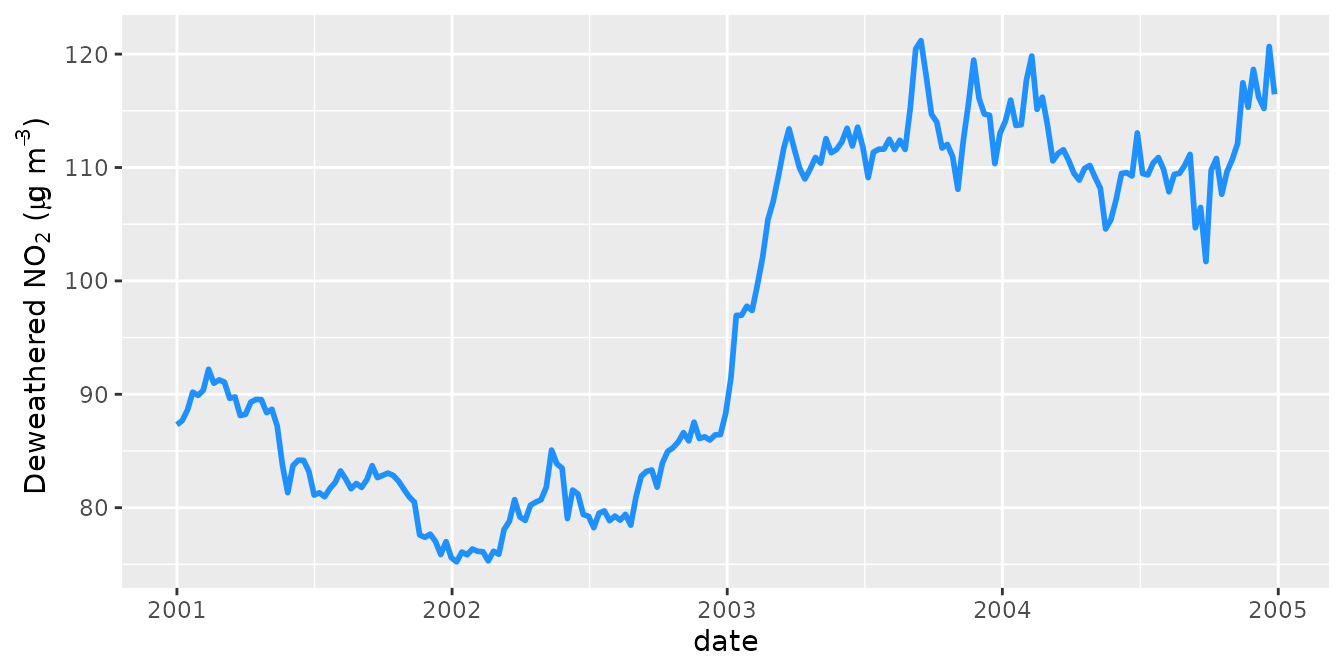
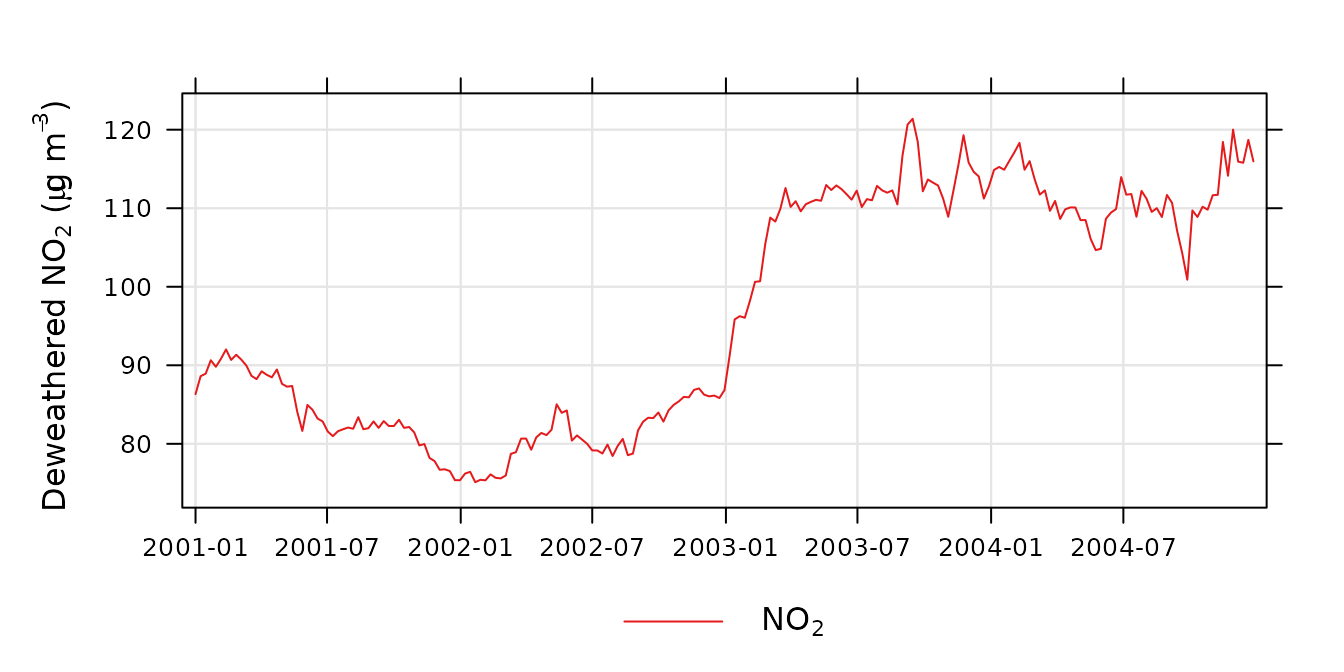
Deploying to gh-pages from @ davidcarslaw/deweather@ae56368aae4a6438d65e21ffb426add6b75899d8 🚀

diff --git a/articles/deweather.html b/articles/deweather.html
@@ -235,10 +235,7 @@ function. Note that in this case there is no need to supply the
 <span><span class="op">)</span></span></code></pre></div>
 <p>Now it is possible to plot the resulting trend.</p>
 <div class="sourceCode" id="cb8"><pre class="downlit sourceCode r">
-<code class="sourceCode R"><span><span class="kw"><a href="https://rdrr.io/r/base/library.html" class="external-link">library</a></span><span class="op">(</span><span class="va"><a href="https://ggplot2.tidyverse.org" class="external-link">ggplot2</a></span><span class="op">)</span></span>
-<span><span class="fu"><a href="https://ggplot2.tidyverse.org/reference/ggplot.html" class="external-link">ggplot</a></span><span class="op">(</span><span class="va">demet</span>, <span class="fu"><a href="https://ggplot2.tidyverse.org/reference/aes.html" class="external-link">aes</a></span><span class="op">(</span><span class="va">date</span>, <span class="va">no2</span><span class="op">)</span><span class="op">)</span> <span class="op">+</span></span>
-<span>  <span class="fu"><a href="https://ggplot2.tidyverse.org/reference/geom_path.html" class="external-link">geom_line</a></span><span class="op">(</span><span class="op">)</span> <span class="op">+</span></span>
-<span>  <span class="fu"><a href="https://ggplot2.tidyverse.org/reference/labs.html" class="external-link">labs</a></span><span class="op">(</span>y <span class="op">=</span> <span class="fu"><a href="https://davidcarslaw.github.io/openair/reference/quickText.html" class="external-link">quickText</a></span><span class="op">(</span><span class="st">"Deweathered no2 (ug/m3)"</span><span class="op">)</span><span class="op">)</span></span></code></pre></div>
+<code class="sourceCode R"><span><span class="fu">openair</span><span class="fu">::</span><span class="fu"><a href="https://davidcarslaw.github.io/openair/reference/timePlot.html" class="external-link">timePlot</a></span><span class="op">(</span><span class="va">demet</span>, <span class="st">"no2"</span>, ylab <span class="op">=</span> <span class="st">"Deweathered no2 (ug/m3)"</span><span class="op">)</span></span></code></pre></div>
 <div class="figure">
 <img src="deweather_files/figure-html/plotTrend-1.png" alt="A line chart with date on the x-axis and deweathered NO2 on the y-axis. The trend is very noisy, but shows an increase in concentrations in 2003." width="672"><p class="caption">
 A deweathered nitrogen dioxide trend.
@@ -250,15 +247,7 @@ noise could be reduced by increasing the simulations, but this would add
 to run time. Alternatively, it can be useful to simply average the
 results. For example:</p>
 <div class="sourceCode" id="cb9"><pre class="downlit sourceCode r">
-<code class="sourceCode R"><span><span class="kw"><a href="https://rdrr.io/r/base/library.html" class="external-link">library</a></span><span class="op">(</span><span class="va"><a href="https://ggplot2.tidyverse.org" class="external-link">ggplot2</a></span><span class="op">)</span></span>
-<span><span class="fu"><a href="https://ggplot2.tidyverse.org/reference/ggplot.html" class="external-link">ggplot</a></span><span class="op">(</span><span class="fu"><a href="https://davidcarslaw.github.io/openair/reference/timeAverage.html" class="external-link">timeAverage</a></span><span class="op">(</span><span class="va">demet</span>, <span class="st">"week"</span><span class="op">)</span>, <span class="fu"><a href="https://ggplot2.tidyverse.org/reference/aes.html" class="external-link">aes</a></span><span class="op">(</span><span class="va">date</span>, <span class="va">no2</span><span class="op">)</span><span class="op">)</span> <span class="op">+</span></span>
-<span>  <span class="fu"><a href="https://ggplot2.tidyverse.org/reference/geom_path.html" class="external-link">geom_line</a></span><span class="op">(</span>col <span class="op">=</span> <span class="st">"dodgerblue"</span>, size <span class="op">=</span> <span class="fl">1</span><span class="op">)</span> <span class="op">+</span></span>
-<span>  <span class="fu"><a href="https://ggplot2.tidyverse.org/reference/labs.html" class="external-link">labs</a></span><span class="op">(</span>y <span class="op">=</span> <span class="fu"><a href="https://davidcarslaw.github.io/openair/reference/quickText.html" class="external-link">quickText</a></span><span class="op">(</span><span class="st">"Deweathered NO2 (ug/m3)"</span><span class="op">)</span><span class="op">)</span></span>
-<span><span class="co">#&gt; Warning: Using `size` aesthetic for lines was deprecated in ggplot2 3.4.0.</span></span>
-<span><span class="co">#&gt; <span style="color: #00BBBB;">ℹ</span> Please use `linewidth` instead.</span></span>
-<span><span class="co">#&gt; <span style="color: #555555;">This warning is displayed once every 8 hours.</span></span></span>
-<span><span class="co">#&gt; <span style="color: #555555;">Call `lifecycle::last_lifecycle_warnings()` to see where this warning was</span></span></span>
-<span><span class="co">#&gt; <span style="color: #555555;">generated.</span></span></span></code></pre></div>
+<code class="sourceCode R"><span><span class="fu">openair</span><span class="fu">::</span><span class="fu"><a href="https://davidcarslaw.github.io/openair/reference/timePlot.html" class="external-link">timePlot</a></span><span class="op">(</span><span class="va">demet</span>, <span class="st">"no2"</span>, avg.time <span class="op">=</span> <span class="st">"week"</span>, ylab <span class="op">=</span> <span class="st">"Deweathered no2 (ug/m3)"</span><span class="op">)</span></span></code></pre></div>
 <div class="figure">
 <img src="deweather_files/figure-html/plotTrendAve-1.png" alt="A line chart with date on the x-axis and deweathered NO2 on the y-axis. The trend has been time averaged to show weekly mean concentrations, clearly illustrating a sharp increase in 2003." width="672"><p class="caption">
 A time-averaged deweathered nitrogen dioxide trend.
